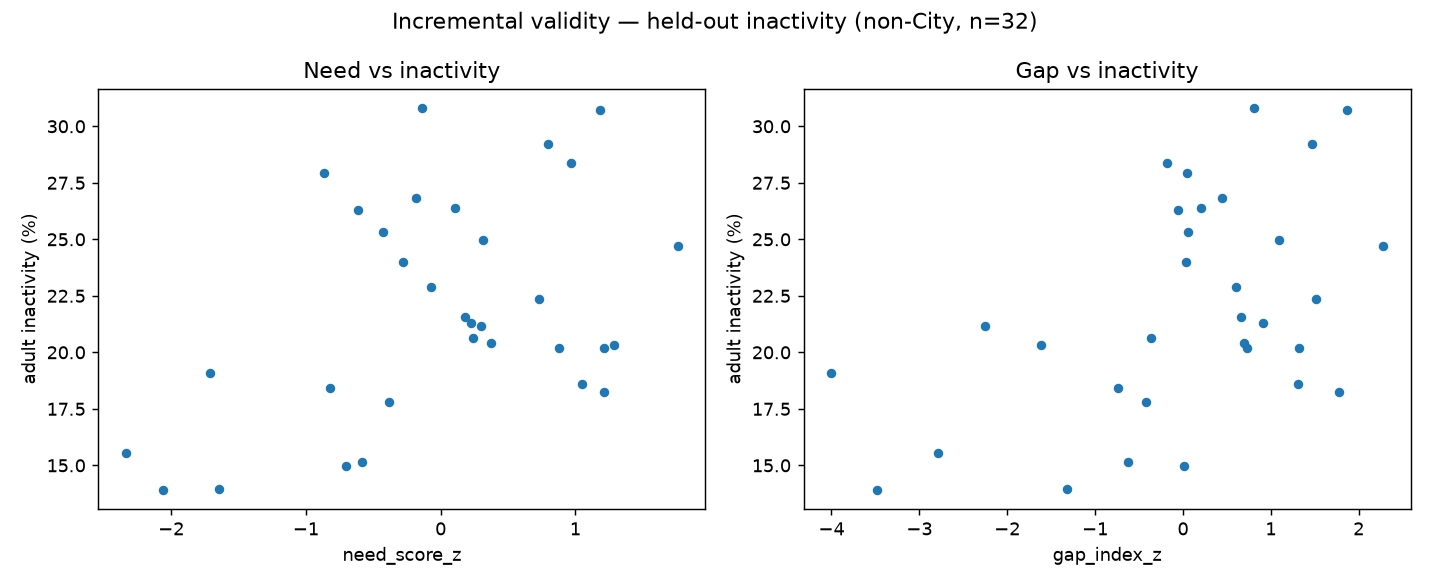
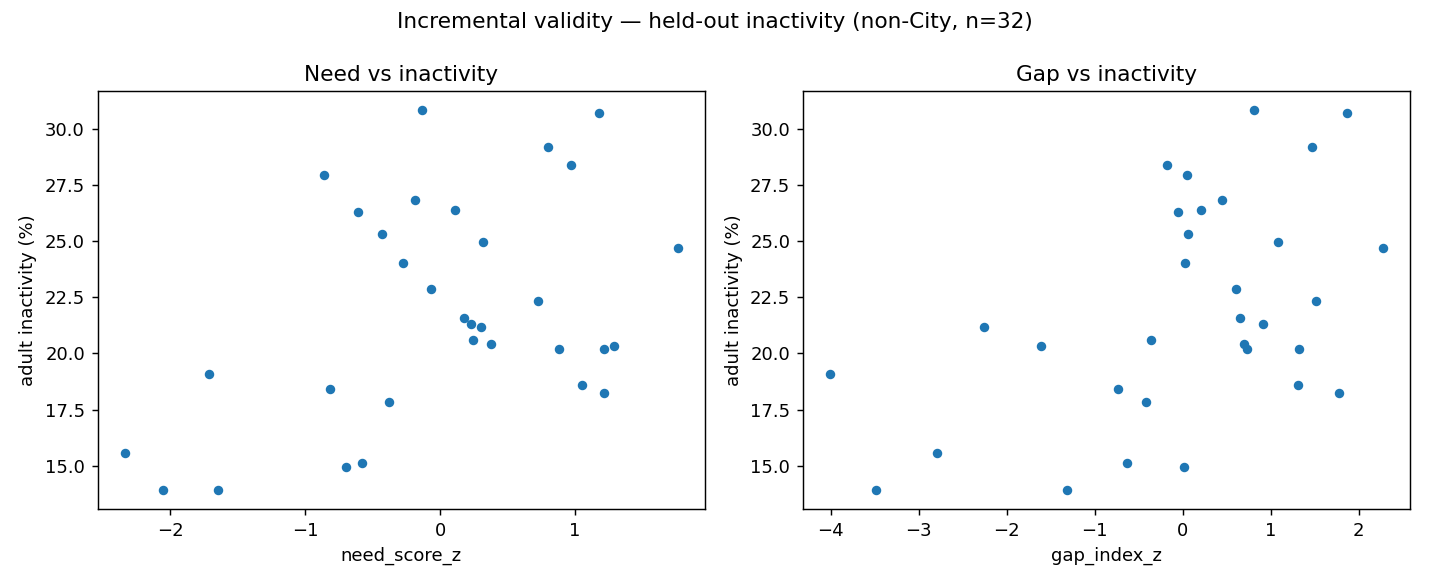
Ingest Active Places (D-018): operational-only, verified decodes, F3 closed Completes the D-018 commit pair (config landed in 520fc45): - pipeline: status filter (kept 98,414/124,839) + shipped-lookup type   decode in build_facilities; community = 'Public Access' - schema: facilities columns declare

diff --git a/tests/test_run.py b/tests/test_run.py
@@ -112,16 +112,37 @@ def make_fixtures(d: pathlib.Path):
                          "location_name": f"V{i}{j%2}", "has_access_info": j % 2 == 0})
     pd.DataFrame(rows).to_csv(d / "sessions.csv", index=False)
 
-    # Active Places facilities
+    # Active Places facilities — mirrors the REAL 2026-07-07 extract shape:
+    # coded 'Facility Type' (decoded via the shipped lookup), coded
+    # 'Operational Status' (only 3=Operational is provision), text accessibility.
     frows = []
     for i, n in enumerate([2, 5, 3]):
         x, y = _pt(i)
         for j in range(n):
-            frows.append({"SiteID": f"S{i}{j//2}", "Lon": x, "Lat": y,
-                          "FacilityType": ["Sports Hall", "Swimming Pool", "Grass Pitch"][j % 3],
-                          "CommunityUse": j % 2 == 0})
+            frows.append({"Site ID": f"S{i}{j//2}", "Longitude": x, "Latitude": y,
+                          "Facility Type": [6, 7, 5][j % 3],   # Sports Hall / Swimming Pool / Grass Pitches
+                          "Operational Status": 3,
+                          "Accessibility Type Group (Text)":
+                              "Public Access" if j % 2 == 0 else "Private"})
+    x0, y0 = _pt(0)
+    frows += [
+        # operational AGP in borough 1: counts in n_facilities but must NOT be
+        # counted as a grass pitch ('Grass Pitches' vs 'Artificial Grass Pitch'
+        # substring hazard — see the config.AP_FAC_TYPES note)
+        {"Site ID": "S0X", "Longitude": x0, "Latitude": y0, "Facility Type": 8,
+         "Operational Status": 3, "Accessibility Type Group (Text)": "Public Access"},
+        # non-operational decoys (closed=5, no-pitch-marked=7): excluded from ALL counts
+        {"Site ID": "S0Y", "Longitude": x0, "Latitude": y0, "Facility Type": 5,
+         "Operational Status": 5, "Accessibility Type Group (Text)": "Public Access"},
+        {"Site ID": "S0Z", "Longitude": x0, "Latitude": y0, "Facility Type": 5,
+         "Operational Status": 7, "Accessibility Type Group (Text)": "Public Access"},
+    ]
     pd.DataFrame(frows).to_csv(d / "fac.csv", index=False)
-    pd.DataFrame([{"SiteID": "S00", "Lon": 0.05, "Lat": 51.55}]).to_csv(d / "sites.csv", index=False)
+    pd.DataFrame({"Facility Type ID": [5, 6, 7, 8],
+                  "Facility Type Name": ["Grass Pitches", "Sports Hall", "Swimming Pool",
+                                         "Artificial Grass Pitch"]}
+                 ).to_csv(d / "factypes.csv", index=False)
+    pd.DataFrame([{"Site ID": "S00", "long": 0.05, "lat": 51.55}]).to_csv(d / "sites.csv", index=False)
 
     # inactivity: OHID Fingertips look-alike — spaced headers, three Sex breakdowns,
     # two time periods. Reader must keep Sex='Persons' and the LATEST period.
@@ -155,6 +176,7 @@ def point_config(d: pathlib.Path):
         "lookup": d / "lookup.csv", "boundaries": d / "bnd.geojson",
         "iod_la": d / "iod.xlsx", "sessions": d / "sessions.csv",
         "ap_sites": d / "sites.csv", "ap_facilities": d / "fac.csv",
+        "ap_facility_types": d / "factypes.csv",
         "inactivity": d / "inact.csv", "ptal": d / "ptal.csv",
         "output": d / "out.csv",
     })
@@ -208,8 +230,16 @@ def main():
         assert abs(df.loc[1, "pct_sessions_free"] - 0.5) < 1e-9
         # per-capita: 3/10000*10000 = 3.0
         assert abs(df.loc[0, "sessions_per_10k"] - 3.0) < 1e-9
-        # facilities 2/5/3
-        assert df["n_facilities"].tolist() == [2, 5, 3]
+        # facilities: 2+1 operational in borough 1 (AGP counts; closed/unmarked
+        # decoys excluded), 5, 3. A failing status filter would give [5, 5, 3].
+        assert df["n_facilities"].tolist() == [3, 5, 3], df["n_facilities"].tolist()
+        # type decode via lookup: halls j%3==0 → 1/2/1
+        assert df["n_fac_sports_halls"].tolist() == [1, 2, 1], df["n_fac_sports_halls"].tolist()
+        # AGP hazard: borough 1 has ZERO grass pitches (its type-8 AGP must not
+        # match the 'Grass Pitches' needle); boroughs 2/3 each have one (j=2)
+        assert df["n_fac_grass_pitches"].tolist() == [0, 1, 1], df["n_fac_grass_pitches"].tolist()
+        # community share borough 1: Public, Private, Public(AGP) → 2/3
+        assert abs(df.loc[0, "pct_community_use"] - 2 / 3) < 1e-9
         # inactivity converted to proportion
         assert abs(df.loc[0, "pct_inactive_adults"] - 0.22) < 1e-9
         # PTAL: '6b'->8, '3'->4, '4'->5

diff --git a/src/pipeline/pipeline.py b/src/pipeline/pipeline.py
@@ -289,15 +289,36 @@ def build_facilities(spine, boundaries) -> pd.DataFrame:
             base[c] = pd.NA
         return base
     fc = C.AP_FAC_COLS
-    fac = pd.read_csv(pf)
+    fac = pd.read_csv(pf, low_memory=False)
+
+    # Operational filter (decode verified in config.py): only currently-usable
+    # facilities count as provision. Closed/planned/unmarked rows are ~21% of
+    # the national file — counting them would inflate every provision figure.
+    n_all = len(fac)
+    fac = fac[pd.to_numeric(fac[fc["status"]], errors="coerce").isin(C.AP_OPERATIONAL_KEEP)]
+    print(f"[facilities] operational filter: kept {len(fac)}/{n_all} rows "
+          f"(status in {sorted(C.AP_OPERATIONAL_KEEP)})")
+
+    # Decode the coded 'Facility Type' via the lookup shipped in the extract.
+    # Fallback: raw values as strings (keeps synthetic fixtures / any future
+    # text-typed export working unchanged).
+    fac["_type_name"] = fac[fc["type"]].astype(str)
+    lut_path = _exists("ap_facility_types")
+    if lut_path is not None:
+        lut = pd.read_csv(lut_path)
+        code2name = dict(zip(lut["Facility Type ID"].astype(str),
+                             lut["Facility Type Name"].astype(str)))
+        fac["_type_name"] = fac[fc["type"]].astype(str).map(code2name).fillna(fac["_type_name"])
+
     fac = _assign_to_borough(fac, fc["lon"], fc["lat"], C.AP_CRS, boundaries).dropna(subset=["lad_code"])
-    fac["_comm"] = fac[fc["community"]].astype(str).str.lower().isin(["1", "true", "yes"])
+    fac["_comm"] = (fac[fc["community"]].astype(str).str.strip().str.lower()
+                    .isin(C.AP_COMMUNITY_TRUE))
     g = fac.groupby("lad_code")
     feat = pd.DataFrame({"n_facilities": g.size(),
                          "n_sites": g[fc["site_id"]].nunique(),
                          "pct_community_use": g["_comm"].mean()})
     for col, needles in C.AP_FAC_TYPES.items():
-        mask = fac[fc["type"]].astype(str).apply(lambda v: any(n.lower() in v.lower() for n in needles))
+        mask = fac["_type_name"].apply(lambda v: any(n.lower() in v.lower() for n in needles))
         feat[col] = fac[mask].groupby("lad_code").size()
     feat = feat.fillna({c: 0 for c in C.AP_FAC_TYPES})
     return base.merge(feat, on="lad_code", how="left")

diff --git a/src/pipeline/schema.py b/src/pipeline/schema.py
@@ -132,6 +132,15 @@ BOROUGH_FEATURES = Schema(
         Col("mean_ptal", "numeric", min=0, max=8),
         Col("median_price_paid", "numeric", min=0.01),   # paid-only by construction;
                                                           # a 0 here = zeros contamination
+        # Active Places corroboration layer (D-011) — operational facilities only
+        Col("n_facilities", "numeric", min=0),
+        Col("n_sites", "numeric", min=0),
+        Col("facilities_per_10k", "numeric", min=0),
+        Col("pct_community_use", "numeric", min=0.0, max=1.0),
+        Col("n_fac_sports_halls", "numeric", min=0),
+        Col("n_fac_swimming_pools", "numeric", min=0),
+        Col("n_fac_grass_pitches", "numeric", min=0),
+        Col("n_fac_health_fitness", "numeric", min=0),
         Col("is_city_of_london", "bool", nullable=False),
     ],
     checks=[

diff --git a/docs/improvement-register.md b/docs/improvement-register.md
@@ -1,0 +1,57 @@
+# Improvement register — everything open, priority-ordered
+**Purpose:** the single checkable list of every known improvement, upgrade, and open item across the project. Priority = marks impact × time pressure (draft to supervisor ~10–14 Aug; submission 1pm 4 Sep). Tick items only when the "done means" clause is true. Update via PR like any other doc.
+**Legend:** owner in bold · effort S/M/L · status ☐ open / ◐ partial / ☑ done-pending-verification.
+
+---
+
+## TIER 1 — CRITICAL (the marks live here; start/chase this week)
+
+- [ ] **1.1 WS3 recommender build** — **Clarence** · L · *The largest unbuilt marks block (LO4).* Done means: the five-PR sequence in `docs/ws3-recommender-spec.md` §6 merged (scaffold+filters → relevance → equity+α → personas+evaluation harness → results tables), synthetic tests green in CI, `ws3.*` manifest rows written. ◐ Kickoff status unknown — confirm the message + OneDrive/Release data handover went out and collaborator access works.
+- [ ] **1.2 Evaluation contract finalised BEFORE build** — **Fahmi** · S · Done means: spec §5/§5b/§5c reviewed and frozen by Fahmi, deviations logged. Blocks honest evaluation of 1.1.
+- [ ] **1.3 Four-eyes re-derivation of manifest headline numbers** — **Fahmi** · S · Outstanding since 3 July. Done means: a second member independently re-derives the headline `results/metrics.csv` rows; discrepancies raised or verified_by column completed.
+- [ ] **1.4 WS4 dashboard** — **Michael** · L · Unstarted; your own LO4 contribution. Done means: one-page view-by-decision design doc (Munzner task framing, per founding D9) agreed, then a code-based build (Streamlit/Dash per proposal; Tableau rejected CR-6), every number a pipeline artefact, vintage + absence-of-data caveat on each view.
+- [ ] **1.5 Report §3 + §5 drafting** — **Michael (+Wesley for §3)** · M · Material verified and frozen; the top-band devices are bound into the skeleton (findings→decisions arrangement, DQ-framework mapping, reproducibility-spectrum position, threats-to-validity, robustness-first results, corrections narrative, traceability appendix). Done means: chapters drafted to the skeleton's page budget with every number manifest-traceable.
+- [ ] **1.6 Literature review (§2)** — **all four, one strand each** · L · The biggest pure-writing gap. Strands: inactivity/public health (Wesley), equity of provision + 2SFCA (Michael), recommenders/fairness (Clarence), evaluation validity (Fahmi). 4–6 papers deep each, critical not descriptive. Done means: strand notes → drafted chapter; every reference read by a member (see 2.6).
+- [ ] **1.7 Draft date agreed with supervisor** — **Michael** · S · The one-draft/≥14-days rule makes ~10–14 Aug the hardest internal date. Done means: an explicit date in writing, in the calendar, in the skeleton.
+- [ ] **1.8 PR #5 reviewed and squash-merged** — **teammate** · S · Still open (reviewer request has slipped repeatedly). Done means: genuine review against the PR checklist, squash-merged with the clean message, branch deleted, everyone re-branches from main.
+- [ ] **1.9 Branch-protection rulesets active** — **Michael** · S · `main` (PR + 1 approval + required "lint + tests" check) AND `feat/*` (block force pushes — the 5 July incident must be unrepeatable). Done means: both rulesets visibly Active in Settings → Rules. Status unconfirmed.
+- [ ] **1.10 Supervisor sign-off bundle** — **Michael** · S · D-009/D-010/D-011 + D-014 reframe + D-015 ratification; handbook ambiguities (SEMTM vs EMATM code; IEEE vs Harvard — affects 2.6; tables-in-page-count; reassessment auto-extension interaction with the group deadline); presentation slot booking; written confirmation of the 6 July documentation guidance; surname resolution (O'Grady vs Avdic — then fix README/team.md/knowledge files). Done means: answers recorded in the decision log / unit-rules.
+- [ ] **1.11 `src/bootstrap_ci.py` committed** — **Michael** · S · The bootstrap CI [0.097, 0.705] currently exists only in audit logs; §5 may not cite it until it is a committed, seeded script writing a results row. Twenty-minute job.
+
+## TIER 2 — HIGH (bounded strengtheners; do while Tier 1 runs)
+
+- [ ] **2.1 Active Places acquisition + facilities corroboration** — **Wesley/Michael** · M · Registration-gated (runbook: `docs/data-sources.md` §7). Unlocks the D-011 corroboration layer and the "thin sessions AND thin facilities" triangulation for §5. Pipeline ingests it unchanged; schema must stay green.
+- [ ] **2.2 Event-harvest re-run with fixes** — **Wesley** · M · Fix list: composite (feed,id) key; exclude UAT/pentest feeds; record feed per row; parse ALL offers (not just "Adult"/"Junior"); log per-feed drop rates; state the time window. Spec: `docs/event_harvest_audit.md` §3. Done means: re-harvested file passes a rerun of `src/verify_event_harvest.py` phase-2 logic with the defects gone.
+- [ ] **2.3 Harvest date for the event layer** — **Wesley** · S · 30-second answer; manifest vintage still "TBC". Then rerun the verify script with the date argument.
+- [ ] **2.4 Open Sessions events-feed harvest (same-universe intensity lens)** — **Wesley (or Michael via the scripted harvester pattern)** · M · D-014 option (b): `opensessions.io/api/rpde/events` gives the TRUE events-per-series lens and cleanly answers "does free activity recur less often?" Optional but the single most interesting bounded analytical extension left.
+- [ ] **2.5 Second held-out outcome (adult obesity via Fingertips)** — **Michael** · S/M · Optional under D-015; must be distinct from inactivity and from Census bad-health. Strengthens validation triangulation if time allows.
+- [ ] **2.6 Reference verification programme** — **all** · M · Every TODO-VERIFY reference read by a member before it enters `references.bib` (Wang & Strong; Peng 2011; Kaminskas & Bridge; Burke 2017; Liu & Burke; the two fairness surveys; Karimi arXiv id unverified; Sallis; Withall; Rubin; Luo & Wang/Qi…). Style (Harvard vs IEEE) pends 1.10. Done means: bib entries complete, style consistent, zero unread citations.
+- [ ] **2.7 Personas document** — **Clarence + Fahmi** · S · `docs/ws3-personas.md`, 6–10 personas spanning the constraint space, labelled illustrative. Blocks the evaluation harness.
+- [ ] **2.8 Contribution evidence spread** — **Clarence, Fahmi, Wesley** · ongoing · Repo history is currently near-single-author; the handbook makes per-member GitHub activity + weekly logs load-bearing for each reflective account (20% each). Done means: all four have commits/PRs and current weekly logs. A small shared script to render per-author activity charts is legitimate common tooling — build once, all four use it.
+- [ ] **2.9 Proposal delta-addendum OR refreshed condensed one-pager** — **Michael** · S · Decision pending (see review of the condensed proposal: six superseded items incl. IoD2019→2025, small-area→borough, MICE→none, UMAP→quadrants, E2SFCA scope, validate-vs-deprivation→D-012). File the PDF in `docs/` as historical either way.
+- [ ] **2.10 Formative-presentation feedback actioned** — **all** · S · Panel feedback (if any) logged and folded into the report plan. Status unknown — capture it before it evaporates.
+
+## TIER 3 — MEDIUM (results hygiene and robustness polish)
+
+- [ ] **3.1 Manifest rows for WS2 headline stats** — **Michael** · S · ρ/CI/sensitivity currently live in `reports/incremental_validity.csv` (fine) but a `gap_index.*` recorder would unify everything under `results/metrics.csv` per D-016.
+- [ ] **3.2 `median_price` column fix (audit Mo2)** — **Michael** · S · Borough feature includes free sessions in its median (contaminated definition, dormant but misleadingly named). Rename to `median_price_all` or recompute paid-only; schema + tests updated.
+- [ ] **3.3 README refresh** — **Michael** · S · Stale: "direction being finalised" banner; milestones table (formative done; draft date); Python "3.10+" vs pinned 3.11; tech stack line; supervisor name pending 1.10. One honest pass.
+- [ ] **3.4 team.md completion** — **all** · S · GitHub usernames missing for three members; role split stale ("Clarence — Prototype & evaluation lead" vs actual Clarence WS3 / Fahmi evaluation).
+- [ ] **3.5 Tooling-docs removal per D-017 housekeeping** — **Michael** · S · Verify `docs/claude-project-instructions.md` and `docs/prompt-playbook.md` are actually untracked/removed (the D-017 entry records the intent; the removal commit may not have run). `git ls-files docs/ | grep -E 'playbook|instructions'` decides.
+- [ ] **3.6 Config comment + .gitignore note (audit minors)** — **Michael** · S · `config.py` sessions path says "(latest)" — should say FROZEN; document the deliberate blanket `data/` ignore choice in the .gitignore.
+- [ ] **3.7 Notebook pointer line** — **Wesley** · S · One markdown line in `data_audit.ipynb` routing readers to `docs/data-sources.md` for provenance.
+- [ ] **3.8 Full data/ OneDrive mirror** — **Michael** · S · Release assets cover 3 files; the full tree (incl. Wesley's 475MB event file and Census/IoD/boundaries) still needs an off-laptop copy. Handbook: data loss ≠ exceptional circumstance.
+- [ ] **3.9 Guides/PDF re-issue** — **Michael** · M · Plain-English Guide + Technical Dossier still carry superseded numbers (team warned off them). Re-issue from the corrected corpus when report drafting stabilises the prose (may be OBE if the report supersedes them entirely).
+
+## TIER 4 — LOW (defensive polish; only after Tiers 1–2 are moving)
+
+- [ ] **4.1 Presentation deck skeleton** — **all** · M · 20% component, 15 min, Teams, all members speak; window opens week of 24 Aug. Skeleton by early Aug; content flows from the report. (Rises to Tier 1 in August.)
+- [ ] **4.2 pyproject/ruff config + pre-commit hooks** — **anyone** · S · CI already enforces; local hooks just shorten the loop.
+- [ ] **4.3 Dashboard heuristic-walkthrough protocol** — **Michael + Fahmi** · S · The consent-based peer task or expert walkthrough plan (proposal §8/Mod2) — drafts inside the WS4 design doc.
+- [ ] **4.4 Handover pack assembly** — **all** · M · Reproducible handover for London Sport (README-level run instructions, licence/attribution block, artefact index). Mostly assembly from existing docs; end of August.
+- [ ] **4.5 Knowledge-base refresh (project workspace)** — **Michael** · S · Project_Context still pre-audit (small-area, imputation, Open Sessions description); sync the corrected docs + decision log so future sessions start from truth; fix the workspace description label.
+- [ ] **4.6 Moran's I / small-n phrasing pass** — **Michael** · S · Ensure §5 prose states the normal-approximation caveat and n=32 power framing exactly once, correctly.
+
+---
+
+**Standing invariants while working ANY item (from `docs/engineering-rules.md`):** numbers only from the manifest/results files with population labels · no imputation · no accuracy vocabulary in WS3 · City of London excluded from scaling, quadrant NA · branch → PR → review → squash · schemas green · vintages stated everywhere.
